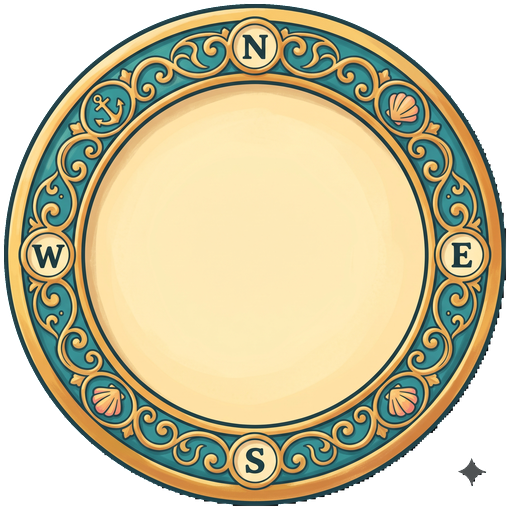
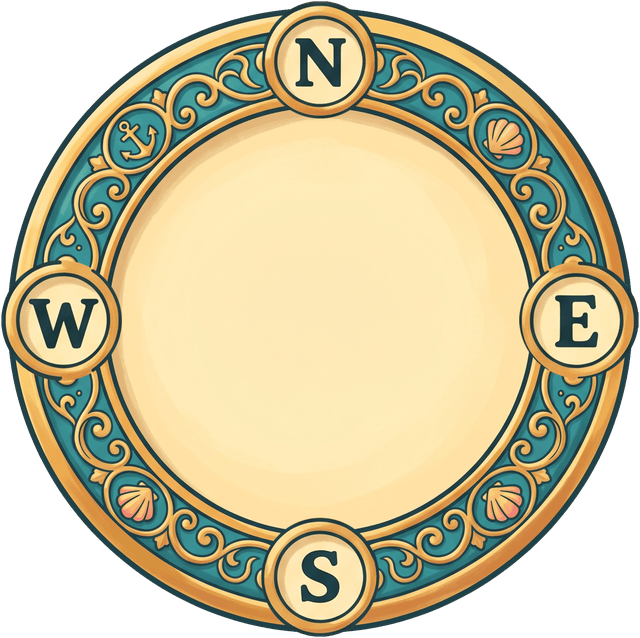
Update compass dial art and shrink/recenter the wind needle
Cuts out the newly revised compass-dial.png (transparent background,
trimmed) and swaps in the touched-up needle asset. Recenters the
needle's rotation pivot on its collar (was offset ~6% of its height,
causing a visible wobble when spinning) and shrinks it 20%.

Changed region(s): [[0.0, 0.0, 1.0, 1.0], [0.9062, 0.9062, 0.9375, 0.9375]]

diff --git a/index.html b/index.html
@@ -2293,7 +2293,10 @@ function drawBoard(){
   // always empty) purely so the storm-color-toggle loop below still has something safe to iterate.
   windLabels=[];
   spinNeedle=el("g",{},hud);
-  const needleImg=el("image",{x:-sr*.42,y:-sr*.95,width:sr*.84,height:sr*1.7,href:COMPASS_NEEDLE_IMG},spinNeedle);
+  // needle art's collar (rotation pivot) sits at the vertical center of the image, so the
+  // box is centered on (0,0) rather than offset — an offset box put the pivot ~6% of the
+  // needle's height away from the collar, a visible wobble when it spins
+  const needleImg=el("image",{x:-sr*.336,y:-sr*.68,width:sr*.672,height:sr*1.36,href:COMPASS_NEEDLE_IMG},spinNeedle);
   spinNeedle.style.transition="transform .7s ease";
   spinNeedle.style.transformOrigin="0px 0px";
   stormText=el("text",{x:0,y:sr+16,"text-anchor":"middle","font-size":14,"font-weight":"bold"},hud);
